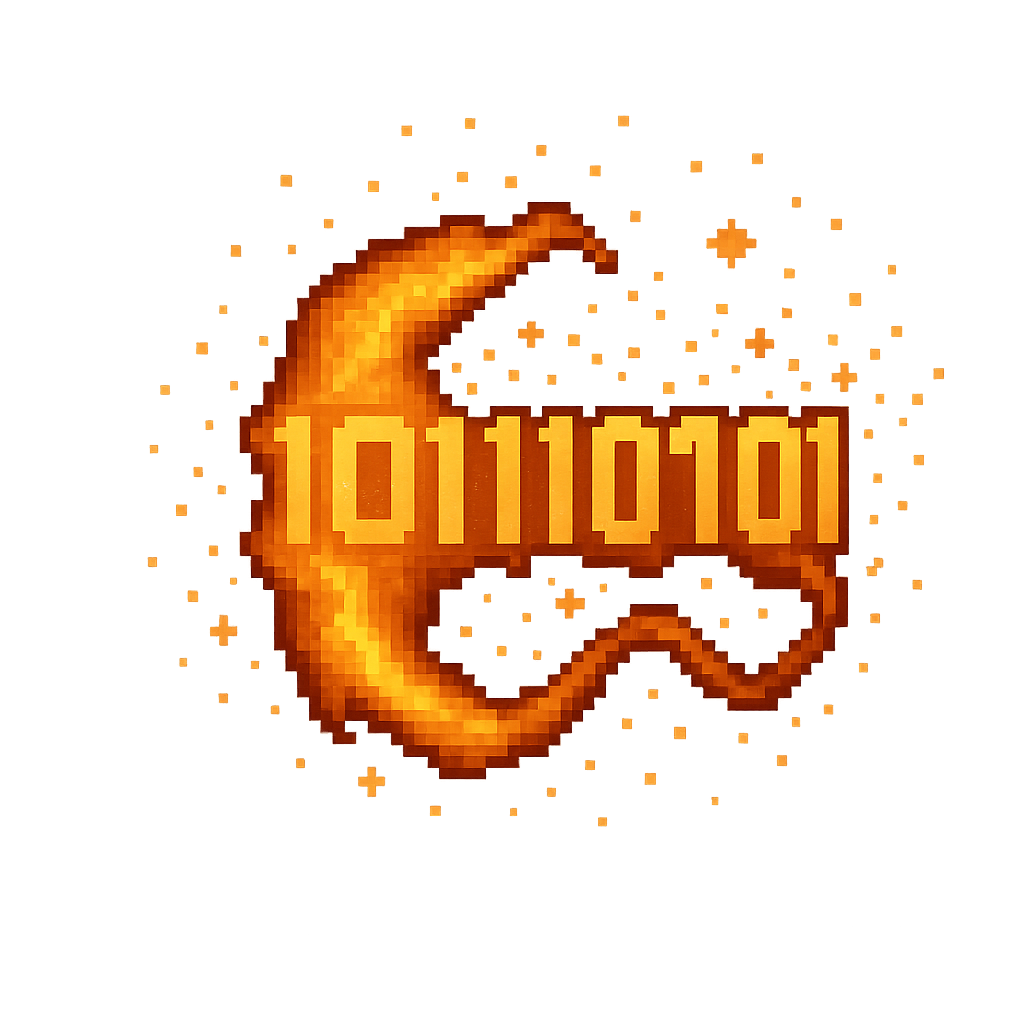
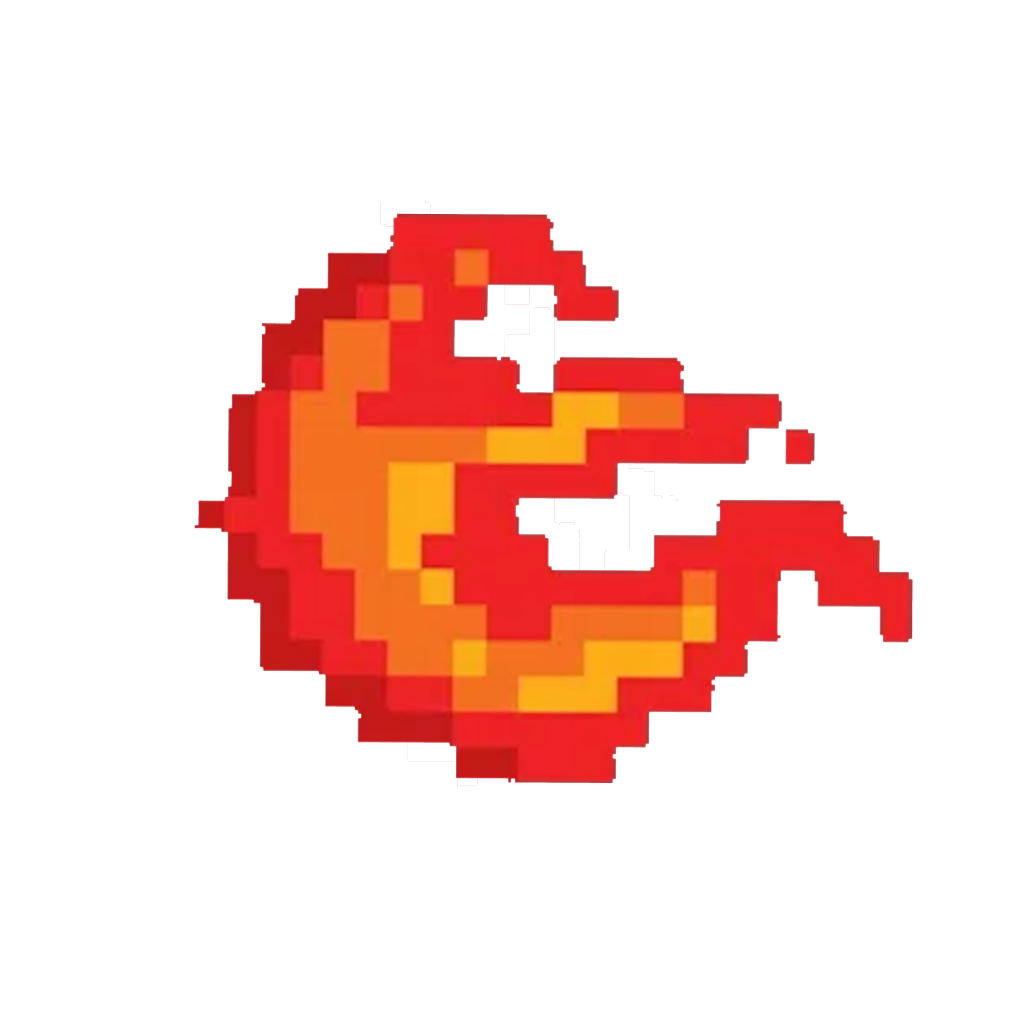
Animação do poder do Boss (Cidão)

diff --git a/jogo-vue-base/src/components/GameTemplate.vue b/jogo-vue-base/src/components/GameTemplate.vue
@@ -61,15 +61,20 @@
           @update:x="playerX = $event" @update:y="jumpY = $event" @update:direcao="direcao = $event"
           @update:estado="onPlayerEstado($event)" />
 
-        <!-- Poder (vindo do Boss) -->
-        <img v-if="poderVisivel" ref="poder" :src="poderSprite" alt="Poder" class="poder"
-          :style="{ right: poderX + 'px' }" />
+        <AnimatedPoder
+         v-for="(poder, index) in poderes"
+        :key="index"
+        :x="poder.x"
+       :y="poder.y"
+        :frames="poder.frames"
+        :frame-delay="100"
+        :style="{ left: poder.x + 'px', bottom: (poder.y || 160) + 'px' }"
+
+/>
 
 
-        <!-- Renderiza todos os poderes ativos do boss -->
-        <img v-for="(poder, idx) in poderes" :key="idx" :src="poder.sprite" class="poder"
-          :style="{ left: (poder.x || 0) + 'px', bottom: (typeof poder.y === 'number' ? poder.y : 0) + 'px' }" />
 
+       
         <!-- Tiro de Laser do Player -->
         <img v-if="tiroVisivel" src="/impacto_laser_pixelado.png" alt="Tiro de Laser" class="tiro"
           :style="{ left: tiroX + 'px', bottom: tiroY + 'px' }" />
@@ -127,6 +132,8 @@ import Player from "./Player.vue";
 // Importamos as fases de Boss
 import BossFase1 from "./Boss1.vue";
 import BossFase2 from "./Boss2.vue";
+import AnimatedPoder from "./AnimatedPoder.vue";
+
 
 const props = defineProps({
   exibirMenu: { type: Boolean, default: false }, // ← ADICIONADO
@@ -297,18 +304,18 @@ function iniciarJogo() {
 }
 
 // ──────────────────────────────────────────────────────────────
-// Quando o BossFaseX emitir “fire-power” com { sprite, speed }
+// Quando o BossFaseX emitir “fire-power” com { frames, speed }
 // chamamos esta função para animar o “poder” no canvas
 // ──────────────────────────────────────────────────────────────
 
-function startBossPower({ sprite, speed, x, y }) {
+function startBossPower({ frames, speed, x, y }) {
   const poderX = (x ?? window.innerWidth - 200) - 80; // margem extra para segurança
   const poderY = typeof y === "number" ? y : 300;
 
   console.log("🔥 Poder ajustado:", poderX, poderY);
 
   poderes.value.push({
-    sprite,
+    frames,
     x: poderX,
     y: poderY,
     speed

diff --git a/jogo-vue-base/src/components/AnimatedPoder.vue b/jogo-vue-base/src/components/AnimatedPoder.vue
@@ -1,0 +1,38 @@
+<template>
+  <img
+    :src="currentFrame"
+    :style="{ left: x + 'px', bottom: y + 'px' }"
+    class="poder"
+  />
+</template>
+
+<script setup>
+import { ref, computed, onMounted, onBeforeUnmount } from "vue";
+
+const props = defineProps({
+  x: Number,
+  y: Number,
+  frames: Array,
+  frameDelay: { type: Number, default: 100 },
+});
+
+const currentIndex = ref(0);
+
+const currentFrame = computed(() => {
+  return props.frames?.[currentIndex.value] || "";
+});
+
+let interval = null;
+
+onMounted(() => {
+  interval = setInterval(() => {
+    currentIndex.value = (currentIndex.value + 1) % props.frames.length;
+  }, props.frameDelay);
+});
+
+onBeforeUnmount(() => {
+  clearInterval(interval);
+});
+</script>
+
+

diff --git a/jogo-vue-base/src/components/Boss1.vue b/jogo-vue-base/src/components/Boss1.vue
@@ -50,10 +50,15 @@ function startFiring() {
     // Emite o evento de disparo com os parâmetros corretos
 
     emit("fire-power", {
-      sprite: "/fase1/poder-binario.png",
-      speed: 7,
-      x: posX,
-      y: posY,
+      frames: [
+    "/fase1/poder-binario.png",
+    "/fase1/poder-binario2.png",
+    "/fase1/poder-binario3.png",
+    "/fase1/poder-binario4.png",
+  ],
+  speed: 7,
+  x: posX,
+  y: posY
     });
   }, 2000);
 }

diff --git a/README.md b/README.md
@@ -39,7 +39,7 @@ O projeto foi desenvolvido utilizando as seguintes tecnologias:
 - **Pedro H. G. Cavalini** – Design dos cenários e construção das fases  
 - **Rafael R. O. Santos** – Programação da movimentação e mecânica dos obstáculos  
 - **Vitor H. Assis da Silva** – Organização do projeto, estrutura geral e documentação
-- **Kauan Marcolino Garcia** - 
+- **Kauan Marcolino Garcia** – Desenvolvimento geral, prompts e lógica do jogo
 
 ---
 
